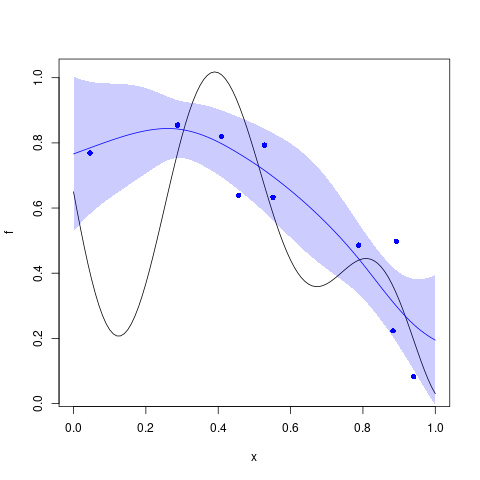
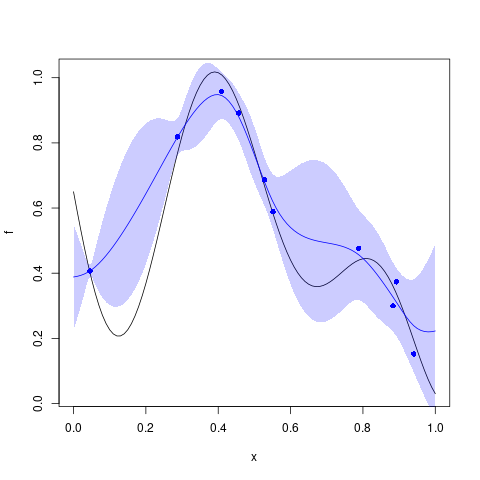
sync with rlibkriging doc

diff --git a/docs/source/functions/NuggetKriging.md b/docs/source/functions/NuggetKriging.md
@@ -28,17 +28,17 @@ Argument      |Description
 ------------- |----------------
 `y`     |     Numeric vector of response values.
 `X`     |     Numeric matrix of input design.
-`kernel`     |     Character defining the covariance model: `"gauss"` , `"exp"` , ... See XXX.
+`kernel`     |     Character defining the covariance model: `"gauss"` , `"exp"` , `"matern3_2"` , `"matern5_2"`.
 `regmodel`     |     Universal NuggetKriging linear trend.
 `normalize`     |     Logical. If `TRUE` both the input matrix `X` and the response `y` in normalized to take values in the interval $[0, 1]$ .
 `optim`     |     Character giving the Optimization method used to fit hyper-parameters. Possible values are: `"BFGS"` and `"none"` , the later simply keeping the values given in `parameters` . The method `"BFGS"` uses the gradient of the objective.
 `objective`     |     Character giving the objective function to optimize. Possible values are: `"LL"` for the Log-Likelihood and `"LMP"` for the Log-Marginal Posterior.
-`parameters`     |     Initial values for the hyper-parameters. When provided this must be named list with elements `"sigma2"`  and `"theta"` containing the initial value(s) for the variance and for the range parameters. If `theta` is a matrix with more than one row, each row is used as a starting point for optimization.
+`parameters`     |     Initial values for the hyper-parameters. When provided this must be named list with some elements `"sigma2"`, `"theta"`, `"nugget"` containing the initial value(s) for the variance, range and nugget parameters. If `theta` is a matrix with more than one row, each row is used as a starting point for optimization.
 
 
 ## Details
 
-The hyper-parameters (variance and vector of correlation ranges)
+The hyper-parameters (variance, nugget and vector of correlation ranges)
  are estimated thanks to the optimization of a criterion given by
  `objective` , using the method given in `optim` .
 

diff --git a/docs/source/functions/logMargPostFun.NuggetKriging.md b/docs/source/functions/logMargPostFun.NuggetKriging.md
@@ -28,7 +28,7 @@ Compute the log-marginal posterior of a kriging model, using the prior XXXY for 
 
 Argument      |Description
 ------------- |----------------
-`theta_alpha`     |     Numeric vector of correlation range and variance over nugget+ variance parameters at which the function is to be evaluated.
+`theta_alpha`     |     Numeric vector of correlation range and variance over nugget + variance parameters at which the function is to be evaluated.
 `grad`     |     Logical. Should the function return the gradient (w.r.t theta_alpha)?
 
 
@@ -49,15 +49,22 @@ y <- f(X) + 0.1 * rnorm(nrow(X))
 k <- NuggetKriging(y, X, "matern3_2", objective="LMP")
 print(k)
 
-# alpha = k$sigma2()/(k$nugget()+k$sigma2())
-# lmp <- function(theta) k$logMargPostFun(cbind(theta,alpha))$logMargPost
-# t <- seq(from = 0.01, to = 2, length.out = 101)
-# plot(t, lmp(t), type = "l")
+# theta0 = k$theta()
+# lmp_alpha <- function(alpha) k$logMargPostFun(cbind(theta0,alpha))$logMargPost
+# a <- seq(from = 0.9, to = 1.0, length.out = 101)
+# plot(a, Vectorize(lmp_alpha)(a), type = "l",xlim=c(0.9,1))
+# abline(v = k$sigma2()/(k$sigma2()+k$nugget()), col = "blue")
+# 
+# alpha0 = k$sigma2()/(k$sigma2()+k$nugget())
+# lmp_theta <- function(theta) k$logMargPostFun(cbind(theta,alpha0))$logMargPost
+# t <- seq(from = 0.001, to = 2, length.out = 101)
+# plot(t, Vectorize(lmp_theta)(t), type = 'l')
 # abline(v = k$theta(), col = "blue")
 
 lmp <- function(theta_alpha) k$logMargPostFun(theta_alpha)$logMargPost
-t <- seq(from = 0.001, to = 1, length.out = 31)
-contour(2*t,t,matrix(ncol=length(t),lmp(expand.grid(2*t,t))))
+t <- seq(from = 0.4, to = 0.6, length.out = 51)
+a <- seq(from = 0.9, to = 1, length.out = 51)
+contour(t,a,matrix(ncol=length(t),lmp(expand.grid(t,a))),nlevels=50,xlab="theta",ylab="sigma2/(sigma2+nugget)")
 points(k$theta(),k$sigma2()/(k$sigma2()+k$nugget()),col='blue')
 ```
 

diff --git a/docs/source/functions/logLikelihoodFun.NoiseKriging.md b/docs/source/functions/logLikelihoodFun.NoiseKriging.md
@@ -46,20 +46,27 @@ The log-Likelihood computed for given
 f <- function(x) 1 - 1 / 2 * (sin(12 * x) / (1 + x) + 2 * cos(7 * x) * x^5 + 0.7)
 set.seed(123)
 X <- as.matrix(runif(10))
-y <- f(X) + 1:10/20  *rnorm(nrow(X))
+y <- f(X) + X/10  *rnorm(nrow(X))
 
-k <- NoiseKriging(y, 1:10/20^2, X, kernel = "matern3_2")
+k <- NoiseKriging(y, (X/10)^2, X, kernel = "matern3_2")
 print(k)
 
-# sigma2 = k$sigma2()
-# ll <- function(theta) k$logLikelihoodFun(cbind(theta,sigma2))$logLikelihood
+# theta0 = k$theta()
+# ll_sigma2 <- function(sigma2) k$logLikelihoodFun(cbind(theta0,sigma2))$logLikelihood
+# s2 <- seq(from = 0.001, to = 1, length.out = 101)
+# plot(s2, Vectorize(ll_sigma2)(s2), type = 'l')
+# abline(v = k$sigma2(), col = "blue")
+
+# sigma20 = k$sigma2()
+# ll_theta <- function(theta) k$logLikelihoodFun(cbind(theta,sigma20))$logLikelihood
 # t <- seq(from = 0.001, to = 2, length.out = 101)
-# plot(t, ll(t), type = 'l')
+# plot(t, Vectorize(ll_theta)(t), type = 'l')
 # abline(v = k$theta(), col = "blue")
 
 ll <- function(theta_sigma2) k$logLikelihoodFun(theta_sigma2)$logLikelihood
-t <- seq(from = 0.001, to = 1, length.out = 31)
-contour(t,0.5*t,matrix(ncol=length(t),ll(expand.grid(t,0.5*t))),xlab="theta",ylab="sigma2")
+s2 <- seq(from = 0.001, to = 1, length.out = 31)
+t <- seq(from = 0.001, to = 2, length.out = 31)
+contour(t,s2,matrix(ncol=length(s2),ll(expand.grid(t,s2))),xlab="theta",ylab="sigma2")
 points(k$theta(),k$sigma2(),col='blue')
 ```
 

diff --git a/docs/source/functions/logLikelihoodFun.NuggetKriging.md b/docs/source/functions/logLikelihoodFun.NuggetKriging.md
@@ -51,15 +51,22 @@ y <- f(X) + 0.1 * rnorm(nrow(X))
 k <- NuggetKriging(y, X, kernel = "matern3_2")
 print(k)
 
-# alpha = k$sigma2()/(k$sigma2()+k$nugget())
-# ll <- function(theta) k$logLikelihoodFun(cbind(theta,alpha))$logLikelihood
-# from = 0.001, to = 2, length.out = 101)
-# plot(t, ll(t), type = 'l')
+# theta0 = k$theta()
+# ll_alpha <- function(alpha) k$logLikelihoodFun(cbind(theta0,alpha))$logLikelihood
+# a <- seq(from = 0.9, to = 1.0, length.out = 101)
+# plot(a, Vectorize(ll_alpha)(a), type = "l",xlim=c(0.9,1))
+# abline(v = k$sigma2()/(k$sigma2()+k$nugget()), col = "blue")
+# 
+# alpha0 = k$sigma2()/(k$sigma2()+k$nugget())
+# ll_theta <- function(theta) k$logLikelihoodFun(cbind(theta,alpha0))$logLikelihood
+# t <- seq(from = 0.001, to = 2, length.out = 101)
+# plot(t, Vectorize(ll_theta)(t), type = 'l')
 # abline(v = k$theta(), col = "blue")
 
 ll <- function(theta_alpha) k$logLikelihoodFun(theta_alpha)$logLikelihood
-t <- seq(from = 0.001, to = 1, length.out = 31)
-contour(t,t,matrix(ncol=length(t),ll(expand.grid(t,0.5*t))),xlab="theta",ylab="sigma2/(sigma2+nugget)")
+a <- seq(from = 0.9, to = 1.0, length.out = 31)
+t <- seq(from = 0.001, to = 2, length.out = 101)
+contour(t,a,matrix(ncol=length(a),ll(expand.grid(t,a))),xlab="theta",ylab="sigma2/(sigma2+nugget)")
 points(k$theta(),k$sigma2()/(k$sigma2()+k$nugget()),col='blue')
 ```
 

diff --git a/docs/source/functions/update.NoiseKriging.md b/docs/source/functions/update.NoiseKriging.md
@@ -41,16 +41,15 @@ f <- function(x) 1- 1 / 2 * (sin(12 * x) / (1 + x) + 2 * cos(7 * x)*x^5 + 0.7)
 plot(f)
 set.seed(123)
 X <- as.matrix(runif(10))
-y <- f(X) + 1:10/20 * rnorm(nrow(X))
+y <- f(X) + X/10 * rnorm(nrow(X))
 points(X, y, col = "blue")
 
-k <- NoiseKriging(y, 1:10/20^2, X, "matern3_2")
+k <- NoiseKriging(y, (X/10)^2, X, "matern3_2")
 
 x <- seq(from = 0, to = 1, length.out = 101)
 p <- k$predict(x)
 lines(x, p$mean, col = "blue")
-polygon(c(x, rev(x)), c(p$mean - 2 * p$stdev, rev(p$mean + 2 * p$stdev)),
-border = NA, col = rgb(0, 0, 1, 0.2))
+polygon(c(x, rev(x)), c(p$mean - 2 * p$stdev, rev(p$mean + 2 * p$stdev)), border = NA, col = rgb(0, 0, 1, 0.2))
 
 newX <- as.matrix(runif(3))
 newy <- f(newX) + 0.1 * rnorm(nrow(newX))
@@ -62,8 +61,7 @@ k$update(newy, rep(0.1^2,3), newX)
 x <- seq(from = 0, to = 1, length.out = 101)
 p2 <- k$predict(x)
 lines(x, p2$mean, col = "red")
-polygon(c(x, rev(x)), c(p2$mean - 2 * p2$stdev, rev(p2$mean + 2 * p2$stdev)),
-border = NA, col = rgb(1, 0, 0, 0.2))
+polygon(c(x, rev(x)), c(p2$mean - 2 * p2$stdev, rev(p2$mean + 2 * p2$stdev)), border = NA, col = rgb(1, 0, 0, 0.2))
 ```
 
 ### Results

diff --git a/docs/source/functions/Kriging.md b/docs/source/functions/Kriging.md
@@ -29,7 +29,7 @@ Argument      |Description
 ------------- |----------------
 `y`     |     Numeric vector of response values.
 `X`     |     Numeric matrix of input design.
-`kernel`     |     Character defining the covariance model: `"gauss"` , `"exp"` , ... See XXX.
+`kernel`     |     Character defining the covariance model: `"gauss"` , `"exp"` , `"matern3_2"` , `"matern5_2"`.
 `regmodel`     |     Universal Kriging linear trend.
 `normalize`     |     Logical. If `TRUE` both the input matrix `X` and the response `y` in normalized to take values in the interval $[0, 1]$ .
 `optim`     |     Character giving the Optimization method used to fit hyper-parameters. Possible values are: `"BFGS"` , `"Newton"` and `"none"` , the later simply keeping the values given in `parameters` . The method `"BFGS"` uses the gradient of the objective. The method `"Newton"` uses both the gradient and the Hessian of the objective.

diff --git a/docs/source/functions/NoiseKriging.md b/docs/source/functions/NoiseKriging.md
@@ -31,7 +31,7 @@ Argument      |Description
 `y`     |     Numeric vector of response values.
 `noise`     |     Numeric vector of response variances.
 `X`     |     Numeric matrix of input design.
-`kernel`     |     Character defining the covariance model: `"gauss"` , `"exp"` , ... See XXX.
+`kernel`     |     Character defining the covariance model: `"gauss"` , `"exp"` , `"matern3_2"` , `"matern5_2"`.
 `regmodel`     |     Universal NoiseKriging linear trend.
 `normalize`     |     Logical. If `TRUE` both the input matrix `X` and the response `y` in normalized to take values in the interval $[0, 1]$ .
 `optim`     |     Character giving the Optimization method used to fit hyper-parameters. Possible values are: `"BFGS"` and `"none"` , the later simply keeping the values given in `parameters` . The method `"BFGS"` uses the gradient of the objective.

diff --git a/docs/source/functions/update.NuggetKriging.md b/docs/source/functions/update.NuggetKriging.md
@@ -48,8 +48,7 @@ k <- NuggetKriging(y, X, "matern3_2")
 x <- seq(from = 0, to = 1, length.out = 101)
 p <- k$predict(x)
 lines(x, p$mean, col = "blue")
-polygon(c(x, rev(x)), c(p$mean - 2 * p$stdev, rev(p$mean + 2 * p$stdev)),
-border = NA, col = rgb(0, 0, 1, 0.2))
+polygon(c(x, rev(x)), c(p$mean - 2 * p$stdev, rev(p$mean + 2 * p$stdev)), border = NA, col = rgb(0, 0, 1, 0.2))
 
 newX <- as.matrix(runif(3))
 newy <- f(newX) + 0.1 * rnorm(nrow(newX))
@@ -61,8 +60,7 @@ k$update(newy, newX)
 x <- seq(from = 0, to = 1, length.out = 101)
 p2 <- k$predict(x)
 lines(x, p2$mean, col = "red")
-polygon(c(x, rev(x)), c(p2$mean - 2 * p2$stdev, rev(p2$mean + 2 * p2$stdev)),
-border = NA, col = rgb(1, 0, 0, 0.2))
+polygon(c(x, rev(x)), c(p2$mean - 2 * p2$stdev, rev(p2$mean + 2 * p2$stdev)), border = NA, col = rgb(1, 0, 0, 0.2))
 ```
 
 ### Results

diff --git a/docs/source/functions/update.Kriging.md b/docs/source/functions/update.Kriging.md
@@ -48,8 +48,7 @@ k <- Kriging(y, X, "matern3_2")
 x <- seq(from = 0, to = 1, length.out = 101)
 p <- k$predict(x)
 lines(x, p$mean, col = "blue")
-polygon(c(x, rev(x)), c(p$mean - 2 * p$stdev, rev(p$mean + 2 * p$stdev)),
-border = NA, col = rgb(0, 0, 1, 0.2))
+polygon(c(x, rev(x)), c(p$mean - 2 * p$stdev, rev(p$mean + 2 * p$stdev)), border = NA, col = rgb(0, 0, 1, 0.2))
 
 newX <- as.matrix(runif(3))
 newy <- f(newX)
@@ -61,8 +60,7 @@ k$update(newy, newX)
 x <- seq(from = 0, to = 1, length.out = 101)
 p2 <- k$predict(x)
 lines(x, p2$mean, col = "red")
-polygon(c(x, rev(x)), c(p2$mean - 2 * p2$stdev, rev(p2$mean + 2 * p2$stdev)),
-border = NA, col = rgb(1, 0, 0, 0.2))
+polygon(c(x, rev(x)), c(p2$mean - 2 * p2$stdev, rev(p2$mean + 2 * p2$stdev)), border = NA, col = rgb(1, 0, 0, 0.2))
 ```
 
 ### Results

diff --git a/docs/source/functions/logLikelihood.NoiseKriging.md b/docs/source/functions/logLikelihood.NoiseKriging.md
@@ -28,7 +28,7 @@ Get logLikelihood of NoiseKriging Model
 ## Value
 
 The logLikelihood computed for fitted
-  $theta$.
+  $\theta,\sigma^2$.
 
 
 ## Examples
@@ -37,9 +37,9 @@ The logLikelihood computed for fitted
 f <- function(x) 1 - 1 / 2 * (sin(12 * x) / (1 + x) + 2 * cos(7 * x) * x^5 + 0.7)
 set.seed(123)
 X <- as.matrix(runif(10))
-y <- f(X) + 1:10/20 * rnorm(nrow(X))
+y <- f(X) + X/10 * rnorm(nrow(X))
 
-k <- NoiseKriging(y, 1:10/20^2, X, kernel = "matern3_2", objective="LL")
+k <- NoiseKriging(y, (X/10)^2, X, kernel = "matern3_2", objective="LL")
 print(k)
 
 k$logLikelihood()

diff --git a/docs/source/functions/simulate.NoiseKriging.md b/docs/source/functions/simulate.NoiseKriging.md
@@ -55,10 +55,10 @@ f <- function(x) 1 - 1 / 2 * (sin(12 * x) / (1 + x) + 2 * cos(7 * x) * x^5 + 0.7
 plot(f)
 set.seed(123)
 X <- as.matrix(runif(10))
-y <- f(X) + 1:10/20 * rnorm(nrow(X))
+y <- f(X) + X/10 * rnorm(nrow(X))
 points(X, y, col = "blue")
 
-k <- NoiseKriging(y, 1:10/20^2, X, kernel = "matern3_2")
+k <- NoiseKriging(y, (X/10)^2, X, kernel = "matern3_2")
 
 x <- seq(from = 0, to = 1, length.out = 101)
 s <- k$simulate(nsim = 3, x = x)

diff --git a/docs/source/functions/predict.NoiseKriging.md b/docs/source/functions/predict.NoiseKriging.md
@@ -55,10 +55,10 @@ f <- function(x) 1 - 1 / 2 * (sin(12 * x) / (1 + x) + 2 * cos(7 * x) * x^5 + 0.7
 plot(f)
 set.seed(123)
 X <- as.matrix(runif(10))
-y <- f(X) + 1:10/20 * rnorm(nrow(X))
+y <- f(X) + X/10 * rnorm(nrow(X))
 points(X, y, col = "blue", pch = 16)
 
-k <- NoiseKriging(y, 1:10/20^2, X, "matern3_2")
+k <- NoiseKriging(y, (X/10)^2, X, "matern3_2")
 
 x <-seq(from = 0, to = 1, length.out = 101)
 p <- k$predict(x)
